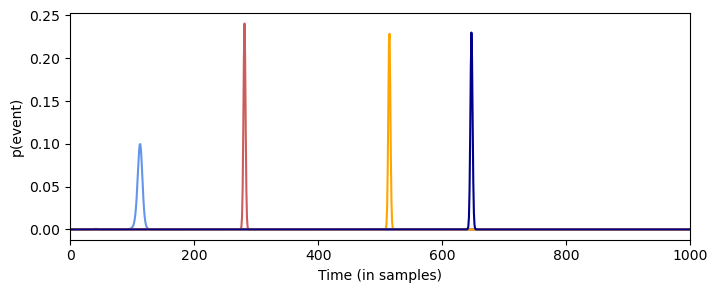
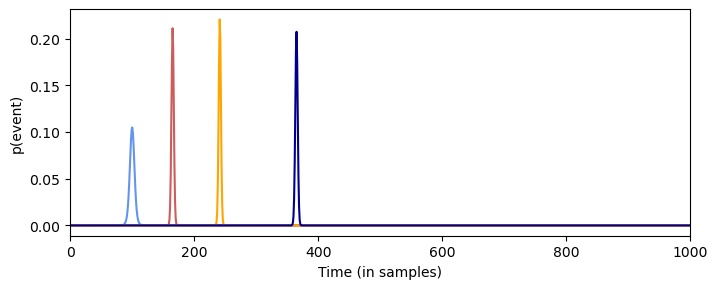
Changed starting points search method to better exploration of parameter space, added simulations to the global import when calling import hsmm_mvpy

diff --git a/src/hsmm_mvpy/models.py b/src/hsmm_mvpy/models.py
@@ -128,8 +128,8 @@ class hsmm:
             parameters = []
             magnitudes = []
             for sp in np.arange(starting_points):
-                parameters.append(np.array([[self.shape,x] for x in np.random.uniform(0,(np.mean(self.durations)/self.shape),n_bumps+1)]))
-                magnitudes.append(np.random.normal(0, .5, (self.n_dims,n_bumps)))
+                parameters.append(self.gen_random_stages(n_bumps, np.mean(self.durations)))
+                magnitudes.append(np.zeros((self.n_dims,n_bumps)))
             with mp.Pool(processes=self.cpus) as pool:
                 estimates = pool.starmap(self.fit, 
                     zip(itertools.repeat(n_bumps), magnitudes, parameters, itertools.repeat(1)))
@@ -147,8 +147,8 @@ class hsmm:
             for sp in np.arange(starting_points):
                 if sp  > 1:
                     #For now the random starting point are uninformed, might be worth to switch to a cleverer solution
-                    parameters = np.array([[self.shape,x] for x in np.random.uniform(0,(np.mean(self.durations)/self.shape),n_bumps+1)])
-                    magnitudes = np.random.normal(0, .5, (self.n_dims,n_bumps))
+                    parameters = self.gen_random_stages(n_bumps, np.mean(self.durations))
+                    magnitudes = np.zeros((self.n_dims,n_bumps))
                 likelihood, magnitudes_, parameters_, eventprobs_ = \
                     self.fit(n_bumps, magnitudes, parameters, threshold)
                 if likelihood > likelihood_prev:
@@ -472,6 +472,33 @@ class hsmm:
         d = [gamma.pdf(t+.5,a,scale=b) for t in np.arange(max_length)]
         d = d/np.sum(d)
         return d
+        
+    def gen_random_stages(self, n_bumps, mean_rt):
+        '''
+        Returns random stage duration between 0 and mean RT by iteratively drawind sample from a 
+        uniform distribution between the last stage duration (equal to 0 for first iteration) and 1.
+        Last stage is equal to 1-previous stage duration.
+        The stages are then scaled to the mean RT
+
+        Parameters
+        ----------
+        n_bumps : int
+            how many bumps
+        mean_rt : float
+            scale parameter
+
+        Returns
+        -------
+        random_stages : ndarray
+            random partition between 0 and mean_rt
+        '''
+        random_stages = [0]
+        for stage in np.arange(n_bumps):
+            random_stages.append(np.random.uniform(random_stages[-1], 1))
+        random_stages.append(1)#last one is defined as 1 - previous
+        random_stages = np.diff(random_stages)
+        random_stages = [[self.shape, x*mean_rt] for x in random_stages]#Remove 0 duration stage
+        return np.round(random_stages)+1
     
     def compute_max_bumps(self):
         '''

diff --git a/src/hsmm_mvpy/__init__.py b/src/hsmm_mvpy/__init__.py
@@ -4,5 +4,6 @@
 from . import models
 from . import utils
 from . import visu
+from . import simulations
 
 __all__ = ["models", "simulations", "utils","visu"]

diff --git a/README.md b/README.md
@@ -11,6 +11,7 @@ A recommended way of using the package is to use a conda environment (see [anaco
 
     $ conda create -n hsmm 
     $ conda activate hsmm
+    $ conda install pip #optional for windows machine
     $ pip install hsmm_mvpy
 
 Then import pyhsmm-mvpa in your favorite python IDE through:
@@ -54,6 +55,15 @@ First we load the libraries necessary for the demo on simulated data
 
 
 ```python
+#Development only
+import sys
+sys.path.insert(0, "/home/gweindel/owncloud/projects/RUGUU/hsmm-mvpy/src")
+%load_ext autoreload
+%autoreload 2
+```
+
+
+```python
 import numpy as np
 import matplotlib.pyplot as plt
 import xarray as xr
@@ -62,7 +72,6 @@ from mne import channels
 
 ## Importing 
 import hsmm_mvpy as hsmm
-from hsmm_mvpy import simulations
 ```
 
 ### Simulating data
@@ -89,7 +98,7 @@ bump_frequency = 10. #Frequency of the simulated bumps
 file = 'dataset_tutorial' #Name of the file to save
 mne_path = path+file+'_raw.fif'
 
-raw, generating_events = simulations.simulate(sources, n_events, max_trial_length, cpus, bump_frequency, file, path, overwrite=True)
+raw, generating_events = hsmm.simulations.simulate(sources, n_events, max_trial_length, cpus, bump_frequency, file, path, overwrite=True)
 ```
 
     Aligning file name to MNE's convention
@@ -178,14 +187,14 @@ eeg_dat.sel(epochs=0,electrodes=['EEG 001','EEG 002','EEG 003']).plot.scatter(x=
 ```
 
     <xarray.Dataset>
-    Dimensions:      (participant: 1, epochs: 30, electrodes: 59, samples: 1365)
+    Dimensions:      (participant: 1, epochs: 30, electrodes: 59, samples: 1247)
     Coordinates:
       * epochs       (epochs) int64 0 1 2 3 4 5 6 7 8 ... 21 22 23 24 25 26 27 28 29
       * electrodes   (electrodes) <U7 'EEG 001' 'EEG 002' ... 'EEG 059' 'EEG 060'
-      * samples      (samples) int64 0 1 2 3 4 5 6 ... 1359 1360 1361 1362 1363 1364
+      * samples      (samples) int64 0 1 2 3 4 5 6 ... 1241 1242 1243 1244 1245 1246
       * participant  (participant) <U2 'S0'
     Data variables:
-        data         (participant, epochs, electrodes, samples) float64 -1.045e-0...
+        data         (participant, epochs, electrodes, samples) float64 -1.87e-06...
         event        (participant, epochs) <U8 'stimulus' 'stimulus' ... 'stimulus'
     Attributes:
         sfreq:    600.614990234375
